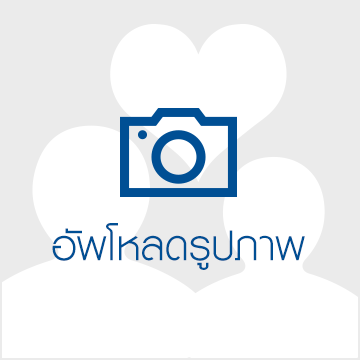
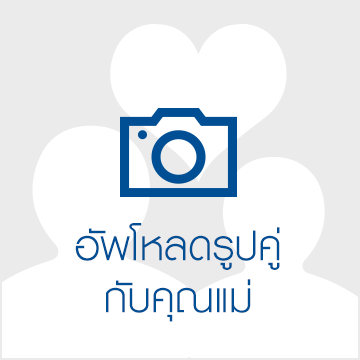
Update : new design 2 page

Changed region(s): [[0.1222, 0.6111, 0.8556, 0.7639], [0.275, 0.7639, 0.7028, 0.8861]]

diff --git a/local/public/assets/css/global.css b/local/public/assets/css/global.css
@@ -536,7 +536,7 @@ figure {
 
 .hero-text {
     background-color: #fff;
-    max-width: 647px;
+    max-width: 602px;
     margin: 0px auto 20px
 }
 
@@ -813,7 +813,7 @@ figure {
 }
 
 .section-select .box-mdf-img .btnSty1 span {
-    background: url("../img/ico_next.png") 100% 40% no-repeat;
+    background: url("../img/ico_next-blue.png") 100% 40% no-repeat;
     background-size: 12px auto;
     font-size: 24px;
     padding-right: 20px;
@@ -872,13 +872,13 @@ figure {
 }
 
 .select-bike .owl-prev {
-    background: url("../img/ico_prev.png") 50% 50% no-repeat;
+    background: url("../img/ico_prev-blue.png") 50% 50% no-repeat;
     background-size: 16px auto;
     left: -20px;
 }
 
 .select-bike .owl-next {
-    background: url("../img/ico_next.png") 50% 50% no-repeat;
+    background: url("../img/ico_next-blue.png") 50% 50% no-repeat;
     background-size: 16px auto;
     right: -20px;
 }
@@ -952,7 +952,7 @@ figure {
     width: 100%;
     max-width: 350px;
     display: inline-block;
-    margin: 15px auto;
+    margin: 50px auto;
 }
 
 /* gallery */
@@ -1217,58 +1217,56 @@ Loading CSS ====================================== */
     height: auto;
 }
 
-.btn-landing-gallery {
-    float: left;
+.btn-landing-start {
     margin-top: 19px;
-    height: 155px;
+    height: 134px;
     display: inline-block;
-    max-width: 306px;
+    max-width: 444px;
     width: 100%;
-    background: transparent url('../img/btn_album.png') center top no-repeat;
+    background: transparent url('../img/btn-start.png') center top no-repeat;
     background-repeat: no-repeat;
     background-size: contain;
     background-position: center;
 }
 
-.btn-landing-gallery:hover {
-    background-image: url('../img/btn_album_hover.png');
+.btn-landing-start:hover {
+    background-image: url('../img/btn-start-hover.png');
 }
 
 .btn-landing-howto {
-    float: right;
     margin-top: 19px;
-    height: 156px;
+    height: 134px;
     display: inline-block;
+    max-width: 444px;
     width: 100%;
-    background: transparent url('../img/btn_howto.png') center top no-repeat;
+    background: transparent url('../img/btn-hot-to.png') center top no-repeat;
     background-repeat: no-repeat;
     background-size: contain;
     background-position: center;
 }
 
 .btn-landing-howto:hover {
-    background-image: url('../img/btn_howto_hover.png');
+    background-image: url('../img/btn-how-to-hover.png');
 }
-
-.btn-start {
-    float: inherit;
-    margin-top: 20px;
-    margin-bottom: 20px;
-    height: 38px;
-    display: inline-block;
-    width: 100%;
-    background: transparent url('../img/btn_start.png') center top no-repeat;
+@media only screen and (max-width: 767px) {
+    .btn-landing-start {
+        height: 100px;
+        width: 60%;
+    }
 }
-
 @media only screen and (max-width: 767px) {
     .btn-landing-howto {
         height: 100px;
-    }
-
-    .btn-landing-gallery {
-        height: 100px;
+        width: 60%;
     }
 }
+
+@media only screen and (max-width: 	420px)  {
+    .btn-landing-howto {
+        margin-top:-20px;
+    }
+}
+
 
 .col-35 {
      width: 35%;
@@ -1279,6 +1277,18 @@ Loading CSS ====================================== */
 
 .col-10 {
     width: 10%;
+    float: left;
+    position: relative;
+    min-height: 1px;
+}
+.col-20 {
+    width: 20%;
+    float: left;
+    position: relative;
+    min-height: 1px;
+}
+.col-60 {
+    width: 60%;
     float: left;
     position: relative;
     min-height: 1px;
@@ -1316,7 +1326,33 @@ Loading CSS ====================================== */
     -moz-border-radius: 10px;
     border-radius: 10px;
 }
+@media only screen and (max-width: 	420px)  {
+    .input-msg{
+        height: 70px;
+    }
+}
 .input-box{
     height: 150px;
+}
+@media only screen and (max-width: 	420px)  {
+    .input-box{
+        height: 85px;
+    }
+}
+.main-btn{
+    text-align: center;
+    height: 330px;
+    overflow: hidden;
+}
+@media only screen and (max-width: 767px) {
+    .main-btn{
+        height: 300px;
+    }
+}
+
+@media only screen and (max-width: 	420px)  {
+    .main-btn{
+        height: 200px;
+    }
 }
 /*# sourceMappingURL=global.css.map */

diff --git a/local/resources/views/sites/activity.blade.php b/local/resources/views/sites/activity.blade.php
@@ -57,6 +57,22 @@
                         </div>
                     </div>
                 </section>
+                <section class="section-select" id="step_2">
+                    <div class="box-btn btn-finish-img">
+                        <a class="btn-save btn-img-txt" href="#" target="_blank">
+                            <span class="img"><img src="{{ asset('assets/img/ico_save.svg',env('URL_SSL')) }}" alt=""></span>
+                            <span class="txt">บันทึก</span>
+                        </a>
+                        <a class="btn-share btn-img-txt" href="#">
+                            <span class="img"><img src="{{ asset('assets/img/ico_share.svg',env('URL_SSL')) }}" alt=""></span>
+                            <span class="txt">แชร์</span>
+                        </a>
+                        <a class="btn-play-again btn-img-txt" onclick="location.reload();" href="javascript:void(0);">
+                            <span class="img"><img src="{{ asset('assets/img/ico_play-again.svg',env('URL_SSL')) }}" alt=""></span>
+                            <span class="txt">เล่นอีกครั้ง</span>
+                        </a>
+                    </div>
+                </section>
             </div>
         </div>
         <div class="crop-result"></div>
@@ -73,7 +89,6 @@
         image.width = 480;
         image.size = 600;
         image.style_index = 1;
-        image.style_path = "<img src='{{ asset('assets/img/bike/MSX_picture-Bike_1.png',env('URL_SSL')) }}'/>";
 
         $(document).ready(function(){
 
@@ -203,27 +218,28 @@
             uploadFile(canvas_crop_data);
         }
         function uploadFile(dataURL) {
-            popup_loading();
-            var task = image.style_index;
-            var token = "{{ csrf_token() }}";
-            $.ajax({
-                type: "POST",
-                url: "@if(env('APP_ENV') == 'prod'){{ secure_url('image/upload') }}@else{{ url('image/upload') }}@endif",
-                data: {
-                    'image': dataURL,
-                    "_token": token,
-                    'frame': image.style_index
-                }
-            }).done(function (data) {
-                step_4();
-                $('.img-finish').html('<img src="' + $.parseJSON(data).fullpath + '"/>');
-                $('.btn-save').attr('href', '' + $.parseJSON(data).fullpath + '');
-                $('.btn-share').click(function (event) {
-                    console.log(task);
-                    shareImage($.parseJSON(data).fullpathshare,task);
-                });
-                $.fancybox.close();
-            });
+            step_2();
+            {{--popup_loading();--}}
+            {{--var task = image.style_index;--}}
+            {{--var token = "{{ csrf_token() }}";--}}
+            {{--$.ajax({--}}
+                {{--type: "POST",--}}
+                {{--url: "@if(env('APP_ENV') == 'prod'){{ secure_url('image/upload') }}@else{{ url('image/upload') }}@endif",--}}
+                {{--data: {--}}
+                    {{--'image': dataURL,--}}
+                    {{--"_token": token,--}}
+                    {{--'frame': image.style_index--}}
+                {{--}--}}
+            {{--}).done(function (data) {--}}
+                {{--step_4();--}}
+                {{--$('.img-finish').html('<img src="' + $.parseJSON(data).fullpath + '"/>');--}}
+                {{--$('.btn-save').attr('href', '' + $.parseJSON(data).fullpath + '');--}}
+                {{--$('.btn-share').click(function (event) {--}}
+                    {{--console.log(task);--}}
+                    {{--shareImage($.parseJSON(data).fullpathshare,task);--}}
+                {{--});--}}
+                {{--$.fancybox.close();--}}
+            {{--});--}}
         }
         function readFile(input) {
             if (input.files && input.files[0]) {

diff --git a/local/resources/views/sites/index.blade.php b/local/resources/views/sites/index.blade.php
@@ -7,18 +7,14 @@
             <img src="{{ asset('assets/img/landing.png') }}" alt="">
         </div>
         <div class="hero-text">
-            <img src="{{ asset('assets/img/landing_text.png') }}" alt="">
+            <img src="{{ asset('assets/img/landing_text2.png') }}" alt="">
         </div>
         <div class="btn-group">
-            <div class="col-10"></div>
-            <div class="col-35"><a class="btn-landing-gallery" href=""></a></div>
-            <div class="col-10"></div>
-            <div class="col-35"><a class="btn-landing-howto" href=""></a></div>
-            <div class="col-10"></div>
-            <a href="{{ url('activity') }}" class="btn-start"></a>
+            <div class="main-btn">
+                <a class="btn-landing-start" href="{{ url('activity') }}"></a>
+                <a class="btn-landing-howto" href="{{ url('how-to-play') }}"></a>
+            </div>
         </div>
-
-
     </div>
 @endsection
 @section('javascript')

diff --git a/local/resources/views/sites/how-to-play.blade.php b/local/resources/views/sites/how-to-play.blade.php
@@ -1,0 +1,18 @@
+@extends('layouts.main')
+@section('head')
+@section('header')
+@section('content')
+    <div class="content" style="background-color: #0a5698">
+        <div class="container">
+            <div class="row">
+                <section class="txtC">
+                    <img class="how-to-play-img" src="{{ asset('assets/img/how-to-play2.png')}}" alt="">
+                </section>
+            </div>
+        </div>
+    </div>
+@endsection
+@section('javascript')
+@section('javascript-content')
+@endsection
+@section('footer')

diff --git a/local/resources/views/layouts/inc/header.blade.php b/local/resources/views/layouts/inc/header.blade.php
@@ -11,7 +11,7 @@
                 <a href="{{url('')}}">หน้าแรก</a>
                 <a href="{{url('activity')}}">เริ่มเล่น</a>
                 <a href="{{url('how-to-play')}}">วิธีการร่วมกิจกรรม</a>
-                <a href="{{url('terms-of-use')}}">Privacy Policy</a>
+                <a href="https://www.nestle.co.th/th/info/yourdata" target="_blank">Privacy Policy</a>
         </div>
     </nav>
 </header>

diff --git a/local/app/Http/Controllers/SiteController.php b/local/app/Http/Controllers/SiteController.php
@@ -38,4 +38,12 @@ class SiteController extends Controller
     {
         return view('sites/activity');
     }
+
+    public function howtoplay(){
+        return view('sites/how-to-play');
+    }
+
+    public function termsofuse(){
+        return view('sites/terms-of-use');
+    }
 }

diff --git a/local/resources/views/layouts/inc/javascript.blade.php b/local/resources/views/layouts/inc/javascript.blade.php
@@ -1,5 +1,5 @@
 <footer class="main-footer">
-    <a href="#" target="_blank" class="twitterbird"></a>
+    <a href="https://www.nestle.co.th/th/info/yourdata" target="_blank" class="twitterbird"></a>
 </footer>
 <div style="display:none;">
     <!-- popup loading-->

diff --git a/local/app/Http/routes.php b/local/app/Http/routes.php
@@ -13,6 +13,9 @@
 
 Route::get('/', 'SiteController@index');
 Route::get('activity', 'SiteController@activity');
+Route::get('how-to-play', 'SiteController@howtoplay');
+
+
 Route::get('home', 'HomeController@index');
 
 Route::controllers([
